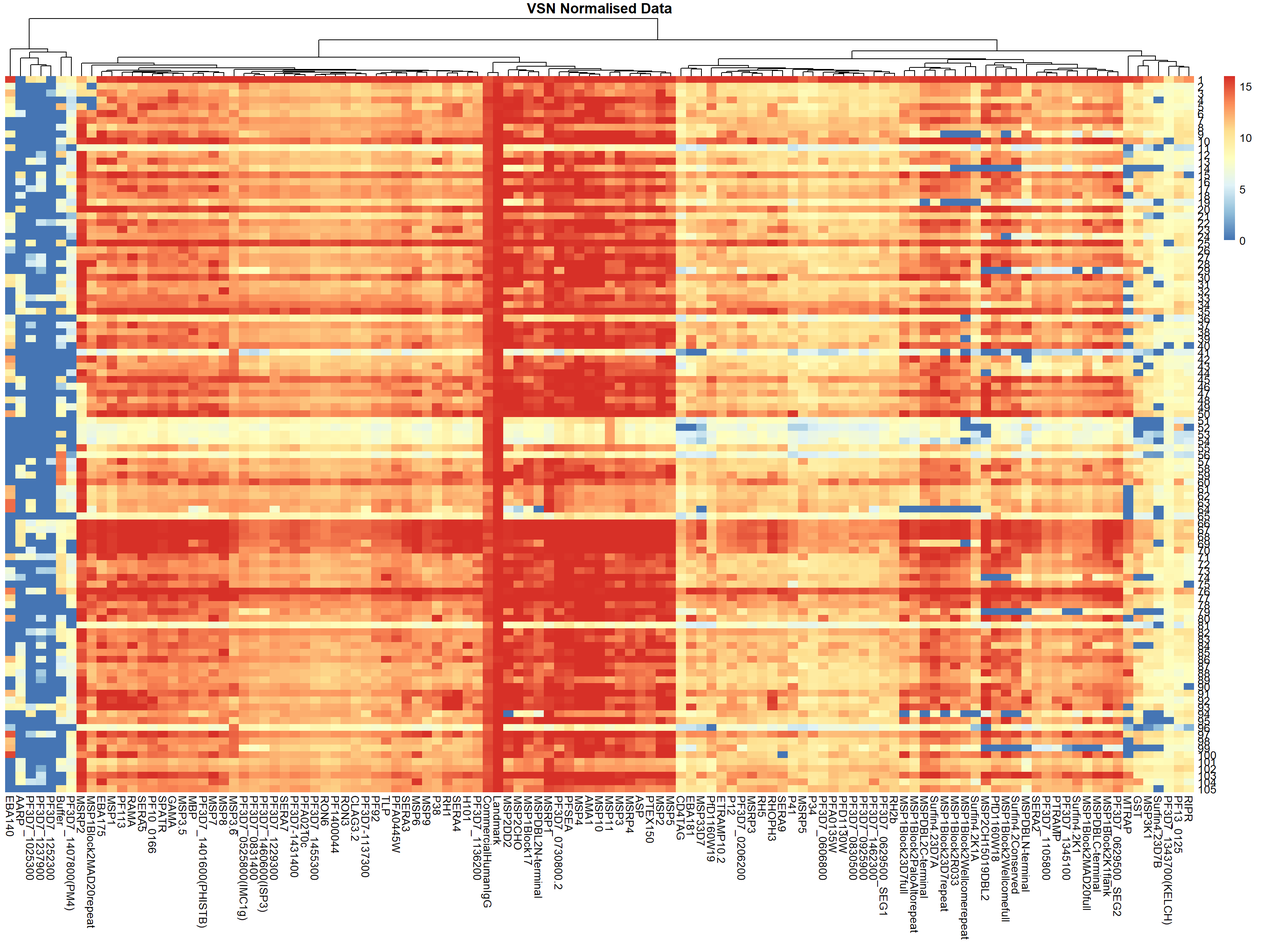
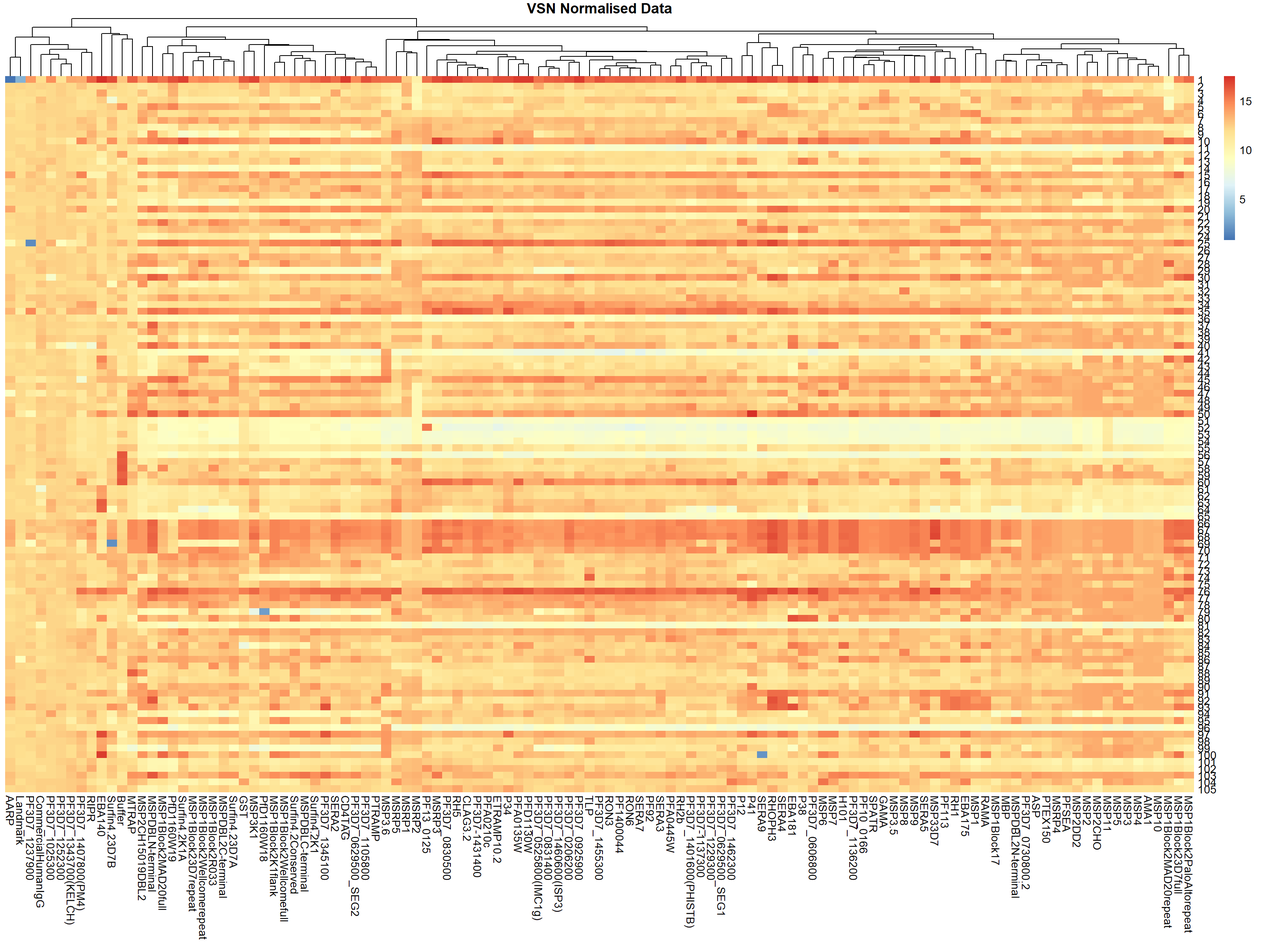
specificied summarise to used dplyr not plyr

diff --git a/docs/articles/protGear_vignette.html b/docs/articles/protGear_vignette.html
@@ -132,7 +132,7 @@
 <p>To install <code>protGear</code> run the following commands in R</p>
 <div class="sourceCode" id="cb1"><pre class="downlit sourceCode r">
 <code class="sourceCode R"><span class="co">## make sure devtools package is installed</span>
-<span class="fu">remotes</span><span class="fu">::</span><span class="fu"><a href="https://rdrr.io/pkg/remotes/man/install_github.html">install_github</a></span><span class="op">(</span><span class="st">"Keniajin/protGear"</span>, dependencies <span class="op">=</span> <span class="cn">TRUE</span><span class="op">)</span></code></pre></div>
+<span class="fu">remotes</span><span class="fu">::</span><span class="fu"><a href="https://remotes.r-lib.org/reference/install_github.html">install_github</a></span><span class="op">(</span><span class="st">"Keniajin/protGear"</span>, dependencies <span class="op">=</span> <span class="cn">TRUE</span><span class="op">)</span></code></pre></div>
 </div>
 </div>
 <div id="importing-data" class="section level2">
@@ -255,13 +255,13 @@
 <span class="co">#' @___________________read_in_the_files_with_the_text_data_from_the_chip_____________________________</span>
 <span class="co">### read all the data files and save them in a list</span>
 <span class="va">data_path</span> <span class="op">&lt;-</span> <span class="fu"><a href="https://rdrr.io/r/base/paste.html">paste0</a></span><span class="op">(</span><span class="va">genepix_vars</span><span class="op">$</span><span class="va">paths</span><span class="op">[[</span><span class="fl">2</span><span class="op">]</span><span class="op">]</span>, <span class="st">"/"</span><span class="op">)</span>
-<span class="va">data_files</span> <span class="op">&lt;-</span> <span class="fu">purrr</span><span class="fu">::</span><span class="fu"><a href="https://rdrr.io/pkg/purrr/man/map.html">map</a></span><span class="op">(</span>
+<span class="va">data_files</span> <span class="op">&lt;-</span> <span class="fu">purrr</span><span class="fu">::</span><span class="fu"><a href="https://purrr.tidyverse.org/reference/map.html">map</a></span><span class="op">(</span>
   .x <span class="op">=</span> <span class="va">filenames</span>,
   .f <span class="op">=</span> <span class="va">read_array_files</span>,
   data_path <span class="op">=</span> <span class="va">data_path</span>,
   genepix_vars <span class="op">=</span> <span class="va">genepix_vars</span>
 <span class="op">)</span>
-<span class="va">data_files</span> <span class="op">&lt;-</span> <span class="fu">set_names</span><span class="op">(</span><span class="va">data_files</span>, <span class="fu">purrr</span><span class="fu">::</span><span class="fu"><a href="https://rdrr.io/pkg/purrr/man/map.html">map</a></span><span class="op">(</span><span class="va">filenames</span>, <span class="va">name_of_files</span><span class="op">)</span><span class="op">)</span></code></pre></div>
+<span class="va">data_files</span> <span class="op">&lt;-</span> <span class="fu">set_names</span><span class="op">(</span><span class="va">data_files</span>, <span class="fu">purrr</span><span class="fu">::</span><span class="fu"><a href="https://purrr.tidyverse.org/reference/map.html">map</a></span><span class="op">(</span><span class="va">filenames</span>, <span class="va">name_of_files</span><span class="op">)</span><span class="op">)</span></code></pre></div>
 </div>
 </div>
 <div id="background-correction" class="section level2">
@@ -279,8 +279,8 @@
 <div class="sourceCode" id="cb9"><pre class="downlit sourceCode r">
 <code class="sourceCode R"><span class="co">## utilising the map package we process a number of files  under data_files list</span>
 <span class="va">dfs</span> <span class="op">&lt;-</span> <span class="fu"><a href="https://rdrr.io/r/base/names.html">names</a></span><span class="op">(</span><span class="va">data_files</span><span class="op">)</span>
-<span class="va">allData_bg</span> <span class="op">&lt;-</span> <span class="fu">purrr</span><span class="fu">::</span><span class="fu"><a href="https://rdrr.io/pkg/purrr/man/map.html">map</a></span><span class="op">(</span>.x <span class="op">=</span> <span class="va">dfs</span>, .f <span class="op">=</span> <span class="va">extract_bg</span>, data_files <span class="op">=</span> <span class="va">data_files</span>, <span class="va">genepix_vars</span><span class="op">)</span>
-<span class="va">allData_bg</span> <span class="op">&lt;-</span> <span class="fu">set_names</span><span class="op">(</span><span class="va">allData_bg</span>, <span class="fu">purrr</span><span class="fu">::</span><span class="fu"><a href="https://rdrr.io/pkg/purrr/man/map.html">map</a></span><span class="op">(</span><span class="va">filenames</span>, <span class="va">name_of_files</span><span class="op">)</span><span class="op">)</span>
+<span class="va">allData_bg</span> <span class="op">&lt;-</span> <span class="fu">purrr</span><span class="fu">::</span><span class="fu"><a href="https://purrr.tidyverse.org/reference/map.html">map</a></span><span class="op">(</span>.x <span class="op">=</span> <span class="va">dfs</span>, .f <span class="op">=</span> <span class="va">extract_bg</span>, data_files <span class="op">=</span> <span class="va">data_files</span>, <span class="va">genepix_vars</span><span class="op">)</span>
+<span class="va">allData_bg</span> <span class="op">&lt;-</span> <span class="fu">set_names</span><span class="op">(</span><span class="va">allData_bg</span>, <span class="fu">purrr</span><span class="fu">::</span><span class="fu"><a href="https://purrr.tidyverse.org/reference/map.html">map</a></span><span class="op">(</span><span class="va">filenames</span>, <span class="va">name_of_files</span><span class="op">)</span><span class="op">)</span>
 <span class="va">allData_bg</span> <span class="op">&lt;-</span> <span class="fu">plyr</span><span class="fu">::</span><span class="fu"><a href="https://rdrr.io/pkg/plyr/man/ldply.html">ldply</a></span><span class="op">(</span><span class="va">allData_bg</span><span class="op">)</span></code></pre></div>
 <div id="foreground-vs-background" class="section level3">
 <h3 class="hasAnchor">
@@ -314,11 +314,11 @@
 <p><em><span style="     color: red !important;">Note:</span></em> Each array file must have its own corresponding sample identifier <code>.csv</code> file stored in <span style="     color: red !important;">array_vars()</span> function under <code>sampleID_path</code>. Check General information section.</p>
 <p>The method of background subtraction selected is specified under <span style="     color: red !important;">method</span> below. The background correction is performed by <span style="     color: red !important;">bg_correct()</span> function.</p>
 <div class="sourceCode" id="cb12"><pre class="downlit sourceCode r">
-<code class="sourceCode R"><span class="va">sample_ID_merged_dfs</span> <span class="op">&lt;-</span> <span class="fu">purrr</span><span class="fu">::</span><span class="fu"><a href="https://rdrr.io/pkg/purrr/man/map.html">map</a></span><span class="op">(</span>
+<code class="sourceCode R"><span class="va">sample_ID_merged_dfs</span> <span class="op">&lt;-</span> <span class="fu">purrr</span><span class="fu">::</span><span class="fu"><a href="https://purrr.tidyverse.org/reference/map.html">map</a></span><span class="op">(</span>
   .x <span class="op">=</span> <span class="va">dfs</span>, .f <span class="op">=</span> <span class="va">merge_sampleID</span>, data_files <span class="op">=</span> <span class="va">data_files</span>,
   <span class="va">genepix_vars</span>, method <span class="op">=</span> <span class="st">"subtract_local"</span>
 <span class="op">)</span>
-<span class="va">sample_ID_merged_dfs</span> <span class="op">&lt;-</span> <span class="fu">set_names</span><span class="op">(</span><span class="va">sample_ID_merged_dfs</span>, <span class="fu">purrr</span><span class="fu">::</span><span class="fu"><a href="https://rdrr.io/pkg/purrr/man/map.html">map</a></span><span class="op">(</span><span class="va">filenames</span>, <span class="va">name_of_files</span><span class="op">)</span><span class="op">)</span></code></pre></div>
+<span class="va">sample_ID_merged_dfs</span> <span class="op">&lt;-</span> <span class="fu">set_names</span><span class="op">(</span><span class="va">sample_ID_merged_dfs</span>, <span class="fu">purrr</span><span class="fu">::</span><span class="fu"><a href="https://purrr.tidyverse.org/reference/map.html">map</a></span><span class="op">(</span><span class="va">filenames</span>, <span class="va">name_of_files</span><span class="op">)</span><span class="op">)</span></code></pre></div>
 </div>
 </div>
 <div id="buffer-spots" class="section level2">
@@ -326,9 +326,9 @@
 <a href="#buffer-spots" class="anchor"></a>Buffer spots</h2>
 <p>Buffer spots are specific to the experiment design and are not always included. Buffer spots are used to check for unexpected scanning artefacts. The buffer spots should have similar values in different slides. Some outliers are expected for buffer spots close sample spots or landmark. However you can specify the name of your control antigens here <span style="     color: blue !important;">buffer_spot=“buffer”</span> if you do not have buffer spots.</p>
 <div class="sourceCode" id="cb13"><pre class="downlit sourceCode r">
-<code class="sourceCode R"><span class="va">buffer_transp</span> <span class="op">&lt;-</span> <span class="fu">purrr</span><span class="fu">::</span><span class="fu"><a href="https://rdrr.io/pkg/purrr/man/map.html">map</a></span><span class="op">(</span>.x <span class="op">=</span> <span class="va">sample_ID_merged_dfs</span>, .f <span class="op">=</span> <span class="va">buffer_spots</span>, buffer_spot <span class="op">=</span> <span class="st">"buffer"</span><span class="op">)</span>
+<code class="sourceCode R"><span class="va">buffer_transp</span> <span class="op">&lt;-</span> <span class="fu">purrr</span><span class="fu">::</span><span class="fu"><a href="https://purrr.tidyverse.org/reference/map.html">map</a></span><span class="op">(</span>.x <span class="op">=</span> <span class="va">sample_ID_merged_dfs</span>, .f <span class="op">=</span> <span class="va">buffer_spots</span>, buffer_spot <span class="op">=</span> <span class="st">"buffer"</span><span class="op">)</span>
 
-<span class="va">buffer_transp</span> <span class="op">&lt;-</span> <span class="fu">set_names</span><span class="op">(</span><span class="va">buffer_transp</span>, <span class="fu">purrr</span><span class="fu">::</span><span class="fu"><a href="https://rdrr.io/pkg/purrr/man/map.html">map</a></span><span class="op">(</span><span class="va">filenames</span>, <span class="va">name_of_files</span><span class="op">)</span><span class="op">)</span>
+<span class="va">buffer_transp</span> <span class="op">&lt;-</span> <span class="fu">set_names</span><span class="op">(</span><span class="va">buffer_transp</span>, <span class="fu">purrr</span><span class="fu">::</span><span class="fu"><a href="https://purrr.tidyverse.org/reference/map.html">map</a></span><span class="op">(</span><span class="va">filenames</span>, <span class="va">name_of_files</span><span class="op">)</span><span class="op">)</span>
 
 <span class="va">buffers</span> <span class="op">&lt;-</span> <span class="fu">plyr</span><span class="fu">::</span><span class="fu"><a href="https://rdrr.io/pkg/plyr/man/ldply.html">ldply</a></span><span class="op">(</span><span class="va">buffer_transp</span><span class="op">)</span>
 <span class="fu"><a href="../reference/plot_buffer.html">plot_buffer</a></span><span class="op">(</span><span class="va">buffers</span>, buffer_names <span class="op">=</span> <span class="st">"antigen"</span>, buffer_mfi <span class="op">=</span> <span class="st">"FMedianBG_correct"</span>, slide_id <span class="op">=</span> <span class="st">".id"</span><span class="op">)</span></code></pre></div>
@@ -341,7 +341,7 @@
 <div class="sourceCode" id="cb14"><pre class="downlit sourceCode r">
 <code class="sourceCode R"><span class="co">#' @________________________________calculated_cv_for_each_data_file_______________________________________</span>
 <span class="co">#' data without the selected mean for the best 2 CVs</span>
-<span class="va">dataCV</span> <span class="op">&lt;-</span> <span class="fu">purrr</span><span class="fu">::</span><span class="fu"><a href="https://rdrr.io/pkg/purrr/man/map.html">map</a></span><span class="op">(</span>
+<span class="va">dataCV</span> <span class="op">&lt;-</span> <span class="fu">purrr</span><span class="fu">::</span><span class="fu"><a href="https://purrr.tidyverse.org/reference/map.html">map</a></span><span class="op">(</span>
   .x <span class="op">=</span> <span class="va">sample_ID_merged_dfs</span>, .f <span class="op">=</span> <span class="va">cv_estimation</span>, lab_replicates <span class="op">=</span> <span class="fl">3</span>,
   cv_cut_off <span class="op">=</span> <span class="fl">20</span>,
   sampleID_var <span class="op">=</span> <span class="st">"sampleID"</span>, antigen_var <span class="op">=</span> <span class="st">"antigen"</span>, replicate_var <span class="op">=</span> <span class="st">"replicate"</span>,
@@ -349,10 +349,10 @@
 <span class="op">)</span>
 
 <span class="va">lab_replicates</span> <span class="op">&lt;-</span> <span class="fl">3</span>
-<span class="va">dataCV</span> <span class="op">&lt;-</span> <span class="fu">set_names</span><span class="op">(</span><span class="va">dataCV</span>, <span class="fu">purrr</span><span class="fu">::</span><span class="fu"><a href="https://rdrr.io/pkg/purrr/man/map.html">map</a></span><span class="op">(</span><span class="va">filenames</span>, <span class="va">name_of_files</span><span class="op">)</span><span class="op">)</span>
+<span class="va">dataCV</span> <span class="op">&lt;-</span> <span class="fu">set_names</span><span class="op">(</span><span class="va">dataCV</span>, <span class="fu">purrr</span><span class="fu">::</span><span class="fu"><a href="https://purrr.tidyverse.org/reference/map.html">map</a></span><span class="op">(</span><span class="va">filenames</span>, <span class="va">name_of_files</span><span class="op">)</span><span class="op">)</span>
 
 <span class="va">aa</span> <span class="op">&lt;-</span> <span class="fu">plyr</span><span class="fu">::</span><span class="fu"><a href="https://rdrr.io/pkg/plyr/man/ldply.html">ldply</a></span><span class="op">(</span><span class="va">dataCV</span><span class="op">)</span>
-<span class="fu">GGally</span><span class="fu">::</span><span class="fu"><a href="https://rdrr.io/pkg/GGally/man/ggpairs.html">ggpairs</a></span><span class="op">(</span><span class="va">aa</span>, <span class="fu">aes</span><span class="op">(</span>color <span class="op">=</span> <span class="va">cvCat_all</span><span class="op">)</span>,
+<span class="fu">GGally</span><span class="fu">::</span><span class="fu"><a href="https://ggobi.github.io/ggally/reference/ggpairs.html">ggpairs</a></span><span class="op">(</span><span class="va">aa</span>, <span class="fu">aes</span><span class="op">(</span>color <span class="op">=</span> <span class="va">cvCat_all</span><span class="op">)</span>,
   columns <span class="op">=</span> <span class="fu"><a href="https://rdrr.io/r/base/paste.html">paste</a></span><span class="op">(</span><span class="fl">1</span><span class="op">:</span><span class="va">lab_replicates</span><span class="op">)</span>, title <span class="op">=</span> <span class="st">""</span>, axisLabels <span class="op">=</span> <span class="st">"show"</span>
 <span class="op">)</span> <span class="op">+</span>
   <span class="fu">theme_light</span><span class="op">(</span><span class="op">)</span></code></pre></div>
@@ -366,18 +366,18 @@
 <span class="co">#' creates summaries by cv's greater than 20 and less than 20</span>
 
 <span class="va">cv_cut_off</span> <span class="op">&lt;-</span> <span class="fl">20</span>
-<span class="va">dataCV_sample</span> <span class="op">&lt;-</span> <span class="fu">purrr</span><span class="fu">::</span><span class="fu"><a href="https://rdrr.io/pkg/purrr/man/map.html">map</a></span><span class="op">(</span>
+<span class="va">dataCV_sample</span> <span class="op">&lt;-</span> <span class="fu">purrr</span><span class="fu">::</span><span class="fu"><a href="https://purrr.tidyverse.org/reference/map.html">map</a></span><span class="op">(</span>
   .x <span class="op">=</span> <span class="va">dataCV</span>, .f <span class="op">=</span> <span class="fu">protGear</span><span class="fu">::</span><span class="va"><a href="../reference/cv_by_sample_estimation.html">cv_by_sample_estimation</a></span>, cv_variable <span class="op">=</span> <span class="st">"cvCat_all"</span>,
   lab_replicates <span class="op">=</span> <span class="fl">3</span>
 <span class="op">)</span>
-<span class="va">dataCV_sample</span> <span class="op">&lt;-</span> <span class="fu">set_names</span><span class="op">(</span><span class="va">dataCV_sample</span>, <span class="fu">purrr</span><span class="fu">::</span><span class="fu"><a href="https://rdrr.io/pkg/purrr/man/map.html">map</a></span><span class="op">(</span><span class="va">filenames</span>, <span class="va">name_of_files</span><span class="op">)</span><span class="op">)</span>
+<span class="va">dataCV_sample</span> <span class="op">&lt;-</span> <span class="fu">set_names</span><span class="op">(</span><span class="va">dataCV_sample</span>, <span class="fu">purrr</span><span class="fu">::</span><span class="fu"><a href="https://purrr.tidyverse.org/reference/map.html">map</a></span><span class="op">(</span><span class="va">filenames</span>, <span class="va">name_of_files</span><span class="op">)</span><span class="op">)</span>
 <span class="va">all_cv_sample</span> <span class="op">&lt;-</span> <span class="fu">plyr</span><span class="fu">::</span><span class="fu"><a href="https://rdrr.io/pkg/plyr/man/ldply.html">ldply</a></span><span class="op">(</span><span class="va">dataCV_sample</span><span class="op">)</span></code></pre></div>
 <div class="sourceCode" id="cb16"><pre class="downlit sourceCode r">
-<code class="sourceCode R"><span class="va">less_20</span> <span class="op">&lt;-</span> <span class="fu">rlang</span><span class="fu">::</span><span class="fu"><a href="https://rdrr.io/pkg/rlang/man/sym.html">sym</a></span><span class="op">(</span><span class="fu"><a href="https://rdrr.io/r/base/paste.html">paste0</a></span><span class="op">(</span><span class="st">"CV &lt;= "</span>, <span class="va">cv_cut_off</span>, <span class="st">"_perc"</span><span class="op">)</span><span class="op">)</span>
-<span class="va">gt_20</span> <span class="op">&lt;-</span> <span class="fu">rlang</span><span class="fu">::</span><span class="fu"><a href="https://rdrr.io/pkg/rlang/man/sym.html">sym</a></span><span class="op">(</span><span class="fu"><a href="https://rdrr.io/r/base/paste.html">paste0</a></span><span class="op">(</span><span class="st">"CV &gt; "</span>, <span class="va">cv_cut_off</span>, <span class="st">"_perc"</span><span class="op">)</span><span class="op">)</span>
+<code class="sourceCode R"><span class="va">less_20</span> <span class="op">&lt;-</span> <span class="fu">rlang</span><span class="fu">::</span><span class="fu"><a href="https://rlang.r-lib.org/reference/sym.html">sym</a></span><span class="op">(</span><span class="fu"><a href="https://rdrr.io/r/base/paste.html">paste0</a></span><span class="op">(</span><span class="st">"CV &lt;= "</span>, <span class="va">cv_cut_off</span>, <span class="st">"_perc"</span><span class="op">)</span><span class="op">)</span>
+<span class="va">gt_20</span> <span class="op">&lt;-</span> <span class="fu">rlang</span><span class="fu">::</span><span class="fu"><a href="https://rlang.r-lib.org/reference/sym.html">sym</a></span><span class="op">(</span><span class="fu"><a href="https://rdrr.io/r/base/paste.html">paste0</a></span><span class="op">(</span><span class="st">"CV &gt; "</span>, <span class="va">cv_cut_off</span>, <span class="st">"_perc"</span><span class="op">)</span><span class="op">)</span>
 
-<span class="va">less_20_per</span> <span class="op">&lt;-</span> <span class="fu">rlang</span><span class="fu">::</span><span class="fu"><a href="https://rdrr.io/pkg/rlang/man/sym.html">sym</a></span><span class="op">(</span><span class="fu"><a href="https://rdrr.io/r/base/paste.html">paste0</a></span><span class="op">(</span><span class="st">"% CV &lt;="</span>, <span class="va">cv_cut_off</span><span class="op">)</span><span class="op">)</span>
-<span class="va">gt_20_per</span> <span class="op">&lt;-</span> <span class="fu">rlang</span><span class="fu">::</span><span class="fu"><a href="https://rdrr.io/pkg/rlang/man/sym.html">sym</a></span><span class="op">(</span><span class="fu"><a href="https://rdrr.io/r/base/paste.html">paste0</a></span><span class="op">(</span><span class="st">"% CV &gt;"</span>, <span class="va">cv_cut_off</span><span class="op">)</span><span class="op">)</span>
+<span class="va">less_20_per</span> <span class="op">&lt;-</span> <span class="fu">rlang</span><span class="fu">::</span><span class="fu"><a href="https://rlang.r-lib.org/reference/sym.html">sym</a></span><span class="op">(</span><span class="fu"><a href="https://rdrr.io/r/base/paste.html">paste0</a></span><span class="op">(</span><span class="st">"% CV &lt;="</span>, <span class="va">cv_cut_off</span><span class="op">)</span><span class="op">)</span>
+<span class="va">gt_20_per</span> <span class="op">&lt;-</span> <span class="fu">rlang</span><span class="fu">::</span><span class="fu"><a href="https://rlang.r-lib.org/reference/sym.html">sym</a></span><span class="op">(</span><span class="fu"><a href="https://rdrr.io/r/base/paste.html">paste0</a></span><span class="op">(</span><span class="st">"% CV &gt;"</span>, <span class="va">cv_cut_off</span><span class="op">)</span><span class="op">)</span>
 <span class="fu">ggplot</span><span class="op">(</span><span class="va">all_cv_sample</span><span class="op">)</span> <span class="op">+</span>
   <span class="fu">geom_violin</span><span class="op">(</span><span class="fu">aes</span><span class="op">(</span><span class="va">.id</span>, <span class="va">`CV &lt;= 20_perc`</span>, color <span class="op">=</span> <span class="st">"% CV =&lt;20"</span><span class="op">)</span><span class="op">)</span> <span class="op">+</span>
   <span class="fu">geom_violin</span><span class="op">(</span><span class="fu">aes</span><span class="op">(</span><span class="va">.id</span>, <span class="va">`CV &gt; 20_perc`</span>, color <span class="op">=</span> <span class="st">"% CV &gt;20"</span><span class="op">)</span><span class="op">)</span> <span class="op">+</span>
@@ -394,20 +394,20 @@
 <div class="sourceCode" id="cb17"><pre class="downlit sourceCode r">
 <code class="sourceCode R"><span class="co">#' @________________________________data_with_selected_best_2_CV_______________________________________</span>
 <span class="co">#' data with the selected mean for the best 2 CVs</span>
-<span class="va">dataCV_best2</span> <span class="op">&lt;-</span> <span class="fu">purrr</span><span class="fu">::</span><span class="fu"><a href="https://rdrr.io/pkg/purrr/man/map.html">map</a></span><span class="op">(</span>
+<span class="va">dataCV_best2</span> <span class="op">&lt;-</span> <span class="fu">purrr</span><span class="fu">::</span><span class="fu"><a href="https://purrr.tidyverse.org/reference/map.html">map</a></span><span class="op">(</span>
   .x <span class="op">=</span> <span class="va">dataCV</span>, .f <span class="op">=</span> <span class="va">best_CV_estimation</span>, slide_id <span class="op">=</span> <span class="st">"iden"</span>, lab_replicates <span class="op">=</span> <span class="fl">3</span>,
   cv_cut_off <span class="op">=</span> <span class="fl">20</span>
 <span class="op">)</span>
 
 <span class="co">## give the names to the returned list</span>
-<span class="va">dataCV_best2</span> <span class="op">&lt;-</span> <span class="fu">set_names</span><span class="op">(</span><span class="va">dataCV_best2</span>, <span class="fu">purrr</span><span class="fu">::</span><span class="fu"><a href="https://rdrr.io/pkg/purrr/man/map.html">map</a></span><span class="op">(</span><span class="va">filenames</span>, <span class="va">name_of_files</span><span class="op">)</span><span class="op">)</span>
+<span class="va">dataCV_best2</span> <span class="op">&lt;-</span> <span class="fu">set_names</span><span class="op">(</span><span class="va">dataCV_best2</span>, <span class="fu">purrr</span><span class="fu">::</span><span class="fu"><a href="https://purrr.tidyverse.org/reference/map.html">map</a></span><span class="op">(</span><span class="va">filenames</span>, <span class="va">name_of_files</span><span class="op">)</span><span class="op">)</span>
 
 
-<span class="va">dataCV_sample_best2</span> <span class="op">&lt;-</span> <span class="fu">purrr</span><span class="fu">::</span><span class="fu"><a href="https://rdrr.io/pkg/purrr/man/map.html">map</a></span><span class="op">(</span>
+<span class="va">dataCV_sample_best2</span> <span class="op">&lt;-</span> <span class="fu">purrr</span><span class="fu">::</span><span class="fu"><a href="https://purrr.tidyverse.org/reference/map.html">map</a></span><span class="op">(</span>
   .x <span class="op">=</span> <span class="va">dataCV_best2</span>, .f <span class="op">=</span> <span class="va">cv_by_sample_estimation</span>,
   cv_variable <span class="op">=</span> <span class="st">"best_CV_cat"</span>, lab_replicates <span class="op">=</span> <span class="fl">3</span>
 <span class="op">)</span>
-<span class="va">dataCV_sample_best2</span> <span class="op">&lt;-</span> <span class="fu">set_names</span><span class="op">(</span><span class="va">dataCV_sample_best2</span>, <span class="fu">purrr</span><span class="fu">::</span><span class="fu"><a href="https://rdrr.io/pkg/purrr/man/map.html">map</a></span><span class="op">(</span><span class="va">filenames</span>, <span class="va">name_of_files</span><span class="op">)</span><span class="op">)</span>
+<span class="va">dataCV_sample_best2</span> <span class="op">&lt;-</span> <span class="fu">set_names</span><span class="op">(</span><span class="va">dataCV_sample_best2</span>, <span class="fu">purrr</span><span class="fu">::</span><span class="fu"><a href="https://purrr.tidyverse.org/reference/map.html">map</a></span><span class="op">(</span><span class="va">filenames</span>, <span class="va">name_of_files</span><span class="op">)</span><span class="op">)</span>
 <span class="va">all_cv_sample_best2</span> <span class="op">&lt;-</span> <span class="fu">plyr</span><span class="fu">::</span><span class="fu"><a href="https://rdrr.io/pkg/plyr/man/ldply.html">ldply</a></span><span class="op">(</span><span class="va">dataCV_sample_best2</span><span class="op">)</span></code></pre></div>
 <p>On the violin below we observe that with selecting the less variable replicates , the percentage of the “good CV” values increases.</p>
 <div class="sourceCode" id="cb18"><pre class="downlit sourceCode r">
@@ -573,13 +573,13 @@ CD4TAG
 <span class="co">#'</span>
 <span class="co">## tag subtract</span>
 <span class="co">## read in the KILCHip TAG file to substract GST-1, MBP -2 and  CD4TAG - 0 file</span>
-<span class="va">dataCV_tag</span> <span class="op">&lt;-</span> <span class="fu">purrr</span><span class="fu">::</span><span class="fu"><a href="https://rdrr.io/pkg/purrr/man/map.html">map</a></span><span class="op">(</span>
+<span class="va">dataCV_tag</span> <span class="op">&lt;-</span> <span class="fu">purrr</span><span class="fu">::</span><span class="fu"><a href="https://purrr.tidyverse.org/reference/map.html">map</a></span><span class="op">(</span>
   .x <span class="op">=</span> <span class="va">dataCV_best2</span>, .f <span class="op">=</span> <span class="va">tag_subtract</span>,
   tag_antigens <span class="op">=</span> <span class="va">tag_antigens</span>, mean_best_CV_var <span class="op">=</span> <span class="st">"mean_best_CV"</span>, tag_file <span class="op">=</span> <span class="va">tag_file</span>,
   antigen_var <span class="op">=</span> <span class="st">"antigen"</span>,
   batch_vars <span class="op">=</span> <span class="va">batch_vars</span>
 <span class="op">)</span>
-<span class="va">dataCV_tag</span> <span class="op">&lt;-</span> <span class="fu">set_names</span><span class="op">(</span><span class="va">dataCV_tag</span>, <span class="fu">purrr</span><span class="fu">::</span><span class="fu"><a href="https://rdrr.io/pkg/purrr/man/map.html">map</a></span><span class="op">(</span><span class="va">filenames</span>, <span class="va">name_of_files</span><span class="op">)</span><span class="op">)</span>
+<span class="va">dataCV_tag</span> <span class="op">&lt;-</span> <span class="fu">set_names</span><span class="op">(</span><span class="va">dataCV_tag</span>, <span class="fu">purrr</span><span class="fu">::</span><span class="fu"><a href="https://purrr.tidyverse.org/reference/map.html">map</a></span><span class="op">(</span><span class="va">filenames</span>, <span class="va">name_of_files</span><span class="op">)</span><span class="op">)</span>
 <span class="va">dataCV_tag</span> <span class="op">&lt;-</span> <span class="fu">plyr</span><span class="fu">::</span><span class="fu"><a href="https://rdrr.io/pkg/plyr/man/ldply.html">ldply</a></span><span class="op">(</span><span class="va">dataCV_tag</span><span class="op">)</span></code></pre></div>
 <p>In this example here we plot a graph of antigens Tagged with GST before and after TAG subtraction.</p>
 <div class="sourceCode" id="cb22"><pre class="downlit sourceCode r">
@@ -587,7 +587,7 @@ CD4TAG
   <span class="fu"><a href="https://rdrr.io/r/stats/filter.html">filter</a></span><span class="op">(</span><span class="va">TAG_name</span> <span class="op">==</span> <span class="st">"GST"</span><span class="op">)</span>
 
 <span class="va">aaa</span> <span class="op">&lt;-</span> <span class="va">aaa</span> <span class="op">%&gt;%</span>
-  <span class="fu">dplyr</span><span class="fu">::</span><span class="fu"><a href="https://rdrr.io/pkg/dplyr/man/select.html">select</a></span><span class="op">(</span><span class="va">.id</span>, <span class="va">sampleID</span>, <span class="va">antigen</span>, <span class="va">mean_best_CV</span>, <span class="va">mean_best_CV_tag</span><span class="op">)</span>
+  <span class="fu">dplyr</span><span class="fu">::</span><span class="fu"><a href="https://dplyr.tidyverse.org/reference/select.html">select</a></span><span class="op">(</span><span class="va">.id</span>, <span class="va">sampleID</span>, <span class="va">antigen</span>, <span class="va">mean_best_CV</span>, <span class="va">mean_best_CV_tag</span><span class="op">)</span>
 
 <span class="va">aaa</span> <span class="op">&lt;-</span> <span class="va">aaa</span> <span class="op">%&gt;%</span>
   <span class="fu">gather</span><span class="op">(</span><span class="va">measure</span>, <span class="va">mfi</span>, <span class="op">-</span><span class="fu"><a href="https://rdrr.io/r/base/c.html">c</a></span><span class="op">(</span><span class="va">.id</span><span class="op">:</span><span class="va">antigen</span><span class="op">)</span><span class="op">)</span>
@@ -653,7 +653,7 @@ CD4TAG
 <p>The <span style="     color: red !important;">matrix_normalise()</span> function is used to normalise the data and returns a list of plots and a matrix of normalised values. A plot is returned if <code>return_plot = T</code> otherwise only a matrix of normalised values will be returned.</p>
 <div class="sourceCode" id="cb24"><pre class="downlit sourceCode r">
 <code class="sourceCode R"><span class="va">normlise_df</span> <span class="op">&lt;-</span> <span class="fu"><a href="../reference/matrix_normalise.html">matrix_normalise</a></span><span class="op">(</span><span class="va">matrix_antigen</span>,
-  method <span class="op">=</span> <span class="st">"log2"</span>, array_matrix <span class="op">=</span> <span class="va">array_matrix</span>,
+  method <span class="op">=</span> <span class="st">"vsn"</span>, array_matrix <span class="op">=</span> <span class="va">array_matrix</span>,
   return_plot <span class="op">=</span> <span class="cn">T</span>, control_antigens <span class="op">=</span> <span class="va">control_antigens</span>
 <span class="op">)</span>
 

diff --git a/docs/index.html b/docs/index.html
@@ -95,7 +95,7 @@
 <div class="sourceCode" id="cb1"><pre class="downlit sourceCode r">
 <code class="sourceCode R"><span class="kw"><a href="https://rdrr.io/r/base/library.html">library</a></span><span class="op">(</span><span class="va"><a href="https://remotes.r-lib.org">remotes</a></span><span class="op">)</span> 
 
-<span class="fu">remotes</span><span class="fu">::</span><span class="fu"><a href="https://rdrr.io/pkg/remotes/man/install_github.html">install_github</a></span><span class="op">(</span><span class="st">"Keniajin/protGear/"</span><span class="op">)</span></code></pre></div>
+<span class="fu">remotes</span><span class="fu">::</span><span class="fu"><a href="https://remotes.r-lib.org/reference/install_github.html">install_github</a></span><span class="op">(</span><span class="st">"Keniajin/protGear/"</span><span class="op">)</span></code></pre></div>
 </div>
 <div id="to-run-the-shiny-application" class="section level2">
 <h2 class="hasAnchor">
@@ -123,6 +123,12 @@
 <h2 class="hasAnchor">
 <a href="#contribute" class="anchor"></a>Contribute</h2>
 <p>Check the Github page for <a href="https://github.com/Keniajin/protGear/">source code</a>.</p>
+</div>
+<div id="publication" class="section level2">
+<h2 class="hasAnchor">
+<a href="#publication" class="anchor"></a>Publication</h2>
+<p>Mwai K, Kibinge N, Tuju J, Kamuyu G, Kimathi R, Mburu J, Chepsat E, Nyamako L, Chege T, Nkumama I, Kinyanjui S. et al. , protGear: A protein microarray data pre-processing suite. Computational and Structural Biotechnology Journal. 2021 Apr 24.</p>
+<p>DOI: <a href="https://doi.org/10.1016/j.csbj.2021.04.044" class="uri">https://doi.org/10.1016/j.csbj.2021.04.044</a></p>
 </div>
 
   </div>

diff --git a/docs/authors.html b/docs/authors.html
@@ -135,7 +135,7 @@
         </p>
       </li>
       <li>
-        <p><strong>Jacqueline Waeni</strong>. . 
+        <p><strong>Jacqueline Waeni</strong>. Contributor. 
         </p>
       </li>
     </ul>
